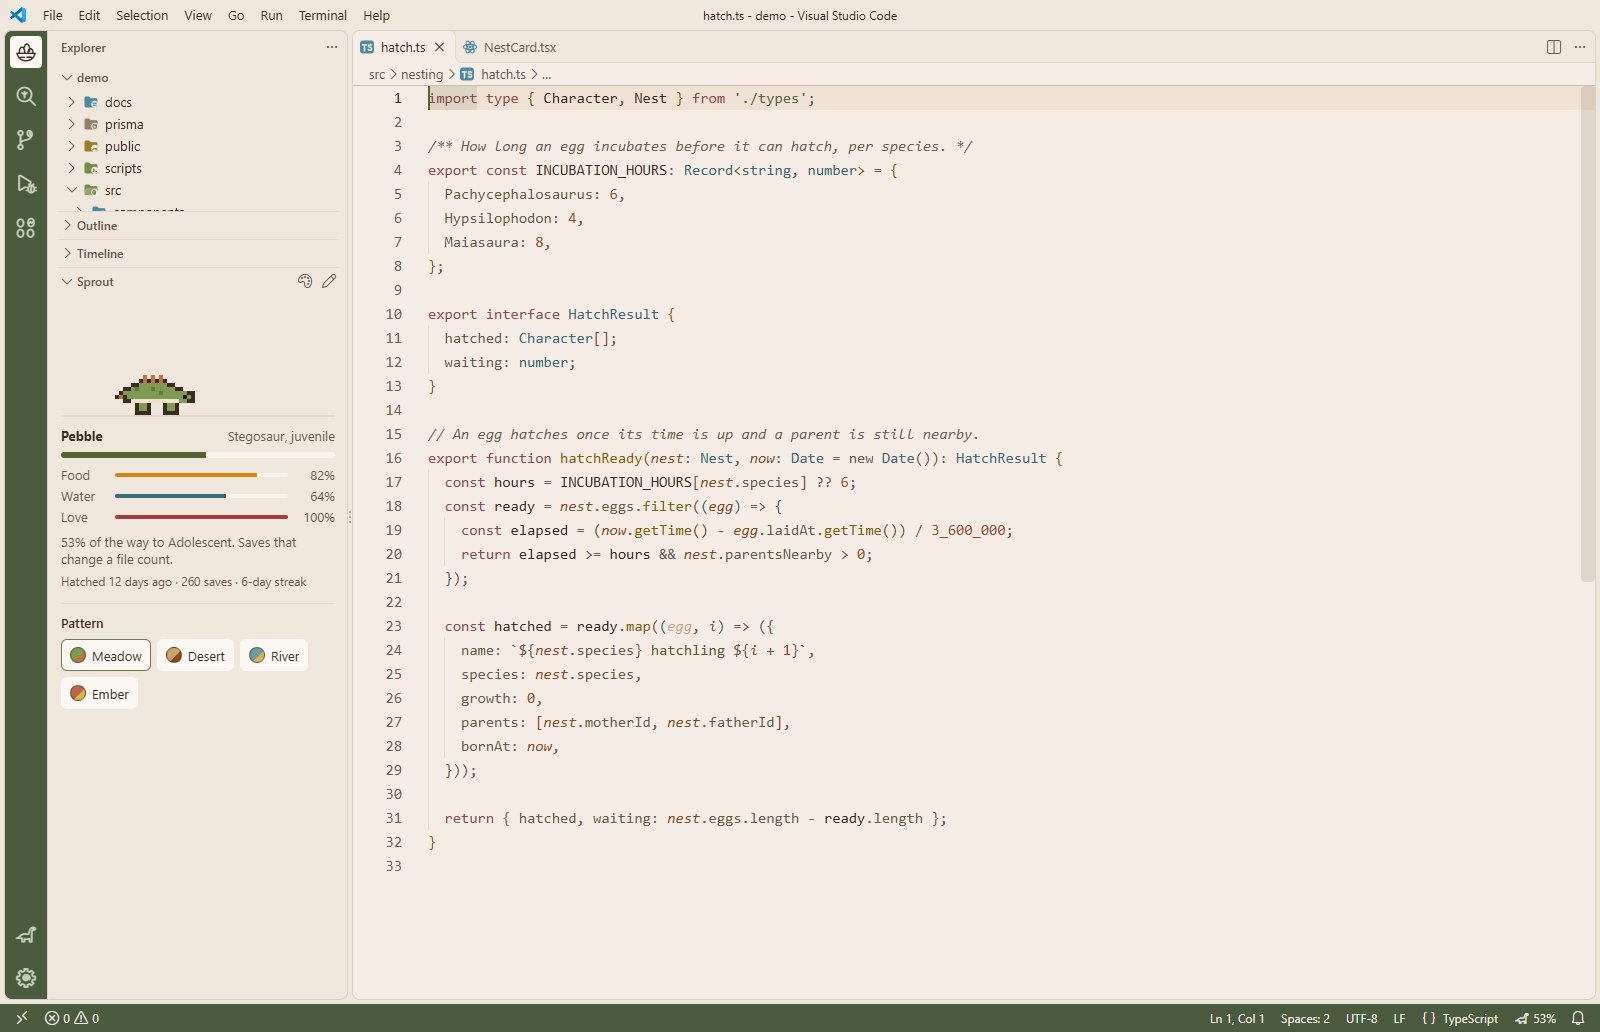
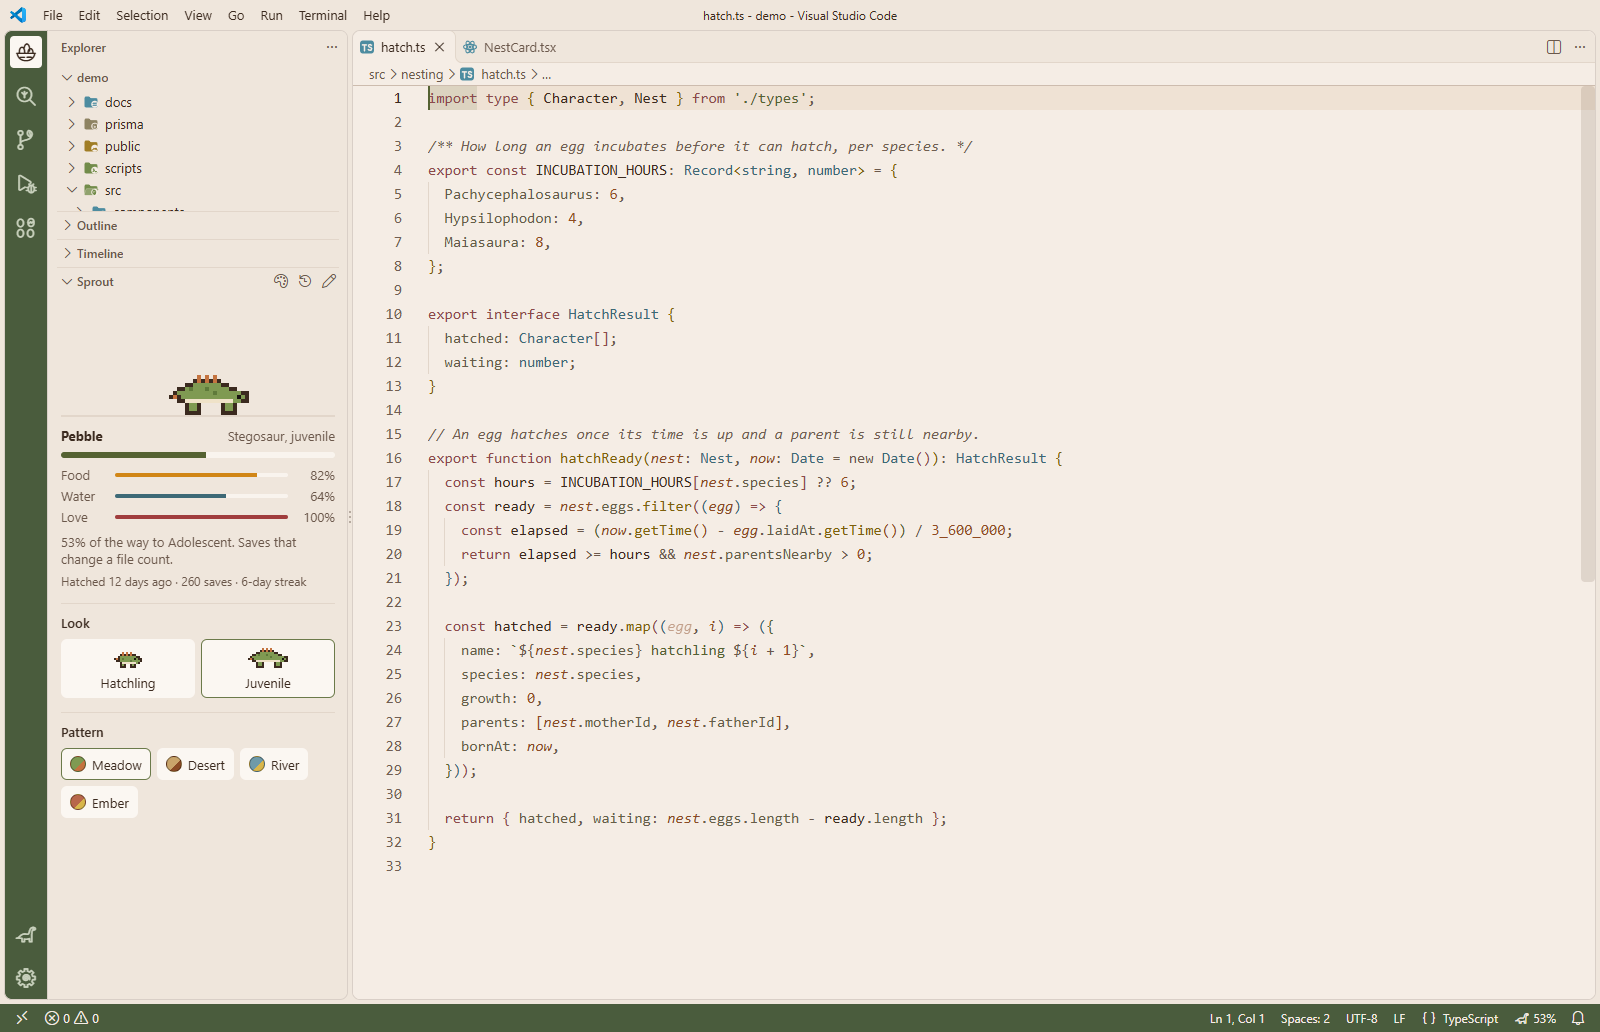
feat: show your sprout at any stage it has reached
- Pick a look under Look in the Sprout view, or with Rosa: Show my sprout at an earlier stage (history button on the view).
- Growth, needs and saves carry on underneath; picking its real stage clears the look so it follows its growth again.
- Starting over with a new egg clears the look.
- shownStage is tested; README, changelog and a new sprout-look picture cover it; version 1.5.0.

Refs #1

diff --git a/extension.js b/extension.js
@@ -52,6 +52,14 @@ function stageOf(saves) {
   return { index, name: STAGES[index].name, growth, next: next?.name ?? null };
 }
 
+// The stage the sprout is drawn at. Once it has reached a stage it can look
+// like that stage again; growth carries on underneath. No look, or a look it
+// has not reached, shows its real stage.
+function shownStage(state) {
+  const real = stageOf(state.saves).index;
+  return Number.isInteger(state.look) && state.look >= 1 && state.look < real ? state.look : real;
+}
+
 // Needs and love drop with wall time since they were last written. An egg
 // has none, so its needs stay full until it hatches.
 function needsAt(state, now) {
@@ -126,6 +134,7 @@ class SproutView {
       name: state.name,
       saves: state.saves,
       stage: stageOf(state.saves),
+      look: shownStage(state),
       errors: errorCount(),
       species: knownSpecies(state.species) ? state.species : 'sauropod',
       speciesChosen: knownSpecies(state.species),
@@ -168,6 +177,14 @@ class SproutView {
     this.refresh();
   }
 
+  // Picking its real stage clears the look, so it follows its growth again.
+  async setLook(index) {
+    const real = stageOf(this.state.saves).index;
+    if (!Number.isInteger(index) || index < 1 || index > real) return;
+    await this.update({ look: index < real ? index : undefined });
+    this.refresh();
+  }
+
   resolveWebviewView(view) {
     this.view = view;
     const media = (file) => view.webview.asWebviewUri(vscode.Uri.joinPath(this.context.extensionUri, 'media', file));
@@ -203,6 +220,10 @@ class SproutView {
     <h2 id="species-title">What's in the egg?</h2>
     <div class="species-list" id="species-list"></div>
   </section>
+  <section class="choices" id="looks" hidden>
+    <h2>Look</h2>
+    <div class="species-list" id="look-list"></div>
+  </section>
   <section class="choices" id="patterns" hidden>
     <h2>Pattern</h2>
     <div class="pattern-list" id="pattern-list"></div>
@@ -221,6 +242,7 @@ class SproutView {
       if (m.type === 'pet') this.pet();
       if (m.type === 'species') this.setSpecies(m.id);
       if (m.type === 'pattern') this.setPattern(m.id);
+      if (m.type === 'look') this.setLook(m.index);
     });
     // The animation pauses while the view is hidden, to spare the battery.
     view.onDidChangeVisibility(() => {
@@ -265,7 +287,10 @@ function activate(context) {
     status.text = `${icon} ${low ? (hunger < LOW ? 'Hungry' : 'Thirsty') : stage.next ? `${Math.floor(stage.growth * 100)}%` : stage.name}`;
     const growth = stage.next ? `${Math.floor(stage.growth * 100)}% of the way to ${stage.next}.` : 'Fully grown.';
     const needs = stage.index > 0 ? ` Food ${Math.round(hunger * 100)}%, water ${Math.round(thirst * 100)}%, love ${Math.round(love * 100)}%.` : '';
-    status.tooltip = `${name}, ${stage.name}. ${growth}${needs}`;
+    const shown = shownStage(sprout.state);
+    const lookName = STAGES[shown].name.toLowerCase();
+    const look = shown < stage.index ? ` Looks like ${/^[aeiou]/.test(lookName) ? 'an' : 'a'} ${lookName}.` : '';
+    status.tooltip = `${name}, ${stage.name}.${look} ${growth}${needs}`;
     status.show();
   };
   sprout.onChange = refreshStatus;
@@ -360,6 +385,25 @@ function activate(context) {
       if (pick) await sprout.setPattern(pick.id);
     }),
 
+    vscode.commands.registerCommand('rosa.sprout.chooseLook', async () => {
+      const real = stageOf(sprout.state.saves).index;
+      if (real < 2) {
+        const line = real === 0 ? 'still an egg' : 'a hatchling, its first stage';
+        vscode.window.showInformationMessage(`${sprout.state.name} is ${line}. Once it grows, you can show it at any stage it has reached.`);
+        return;
+      }
+      const shown = shownStage(sprout.state);
+      const pick = await vscode.window.showQuickPick(
+        STAGES.slice(1, real + 1).map((s, i) => ({
+          label: s.name,
+          description: [i + 1 === real ? 'Its real stage' : undefined, i + 1 === shown ? 'Current look' : undefined].filter(Boolean).join(', ') || undefined,
+          index: i + 1,
+        })),
+        { title: `Pick the stage ${sprout.state.name} looks like`, placeHolder: 'It keeps growing either way. Pick its real stage to follow its growth again.' },
+      );
+      if (pick) await sprout.setLook(pick.index);
+    }),
+
     vscode.commands.registerCommand('rosa.sprout.rename', async () => {
       const name = await vscode.window.showInputBox({
         title: 'Rename your sprout',
@@ -379,7 +423,7 @@ function activate(context) {
         'Start over with a new egg',
       );
       if (pick !== 'Start over with a new egg') return;
-      await sprout.update({ saves: 0, hunger: 1, thirst: 1, love: 1, species: undefined, hatchedAt: undefined, streak: 0, lastSaveDay: undefined });
+      await sprout.update({ saves: 0, hunger: 1, thirst: 1, love: 1, species: undefined, look: undefined, hatchedAt: undefined, streak: 0, lastSaveDay: undefined });
       sprout.refresh();
     }),
   );
@@ -397,4 +441,4 @@ function activate(context) {
 
 function deactivate() {}
 
-module.exports = { activate, deactivate, stageOf, needsAt, countsAsSave, nextStreak, dayOf };
+module.exports = { activate, deactivate, stageOf, shownStage, needsAt, countsAsSave, nextStreak, dayOf };

diff --git a/media/sprout.js b/media/sprout.js
@@ -16,6 +16,7 @@ let state = {
   name: 'Sprout',
   saves: 0,
   stage: { index: 0, name: 'Egg', growth: 0, next: 'Hatchling' },
+  look: 0,
   errors: 0,
   hunger: 1,
   thirst: 1,
@@ -64,6 +65,11 @@ function say(text, ms = 2600) {
 const percent = (v) => `${Math.round(v * 100)}%`;
 const needy = () => state.hunger < LOW || state.thirst < LOW;
 const stages = () => SPRITES.species[state.species] ?? SPRITES.stages;
+const LOOK_NAMES = ['egg', 'hatchling', 'juvenile', 'adolescent', 'adult'];
+const lookName = () => {
+  const name = LOOK_NAMES[state.look] ?? LOOK_NAMES[state.stage.index];
+  return `${/^[aeiou]/.test(name) ? 'an' : 'a'} ${name}`;
+};
 
 function age() {
   if (!state.hatchedAt) return null;
@@ -82,6 +88,15 @@ function buildChoices() {
     button.addEventListener('click', () => vscode.postMessage({ type: 'species', id: s.id }));
     speciesList.appendChild(button);
   }
+  const lookList = document.getElementById('look-list');
+  ['Hatchling', 'Juvenile', 'Adolescent', 'Adult'].forEach((name, i) => {
+    const button = document.createElement('button');
+    button.type = 'button';
+    button.dataset.look = String(i + 1);
+    button.innerHTML = `<canvas aria-hidden="true"></canvas><span>${name}</span>`;
+    button.addEventListener('click', () => vscode.postMessage({ type: 'look', index: i + 1 }));
+    lookList.appendChild(button);
+  });
   const patternList = document.getElementById('pattern-list');
   for (const p of PATTERNS) {
     const button = document.createElement('button');
@@ -94,13 +109,16 @@ function buildChoices() {
   }
 }
 
-// The species buttons while it is an egg, the pattern buttons after.
+// The species buttons while it is an egg, the look and pattern buttons after.
+// A look only shows once there are two stages to pick from.
 function renderChoices() {
   const egg = state.stage.index === 0;
   const species = document.getElementById('species');
   const patterns = document.getElementById('patterns');
+  const looks = document.getElementById('looks');
   species.hidden = !egg;
   patterns.hidden = egg;
+  looks.hidden = state.stage.index < 2;
   document.getElementById('species-title').textContent = state.speciesChosen
     ? `${speciesOf(state.species).name} egg. You can still change your mind.`
     : "What's in the egg?";
@@ -109,6 +127,14 @@ function renderChoices() {
     button.setAttribute('aria-pressed', String(state.speciesChosen && id === state.species));
     const preview = button.querySelector('canvas');
     draw(preview, preview.getContext('2d'), SPRITES.species[id][4].walkA, 2, palette);
+  });
+  looks.querySelectorAll('button').forEach((button) => {
+    const index = Number(button.dataset.look);
+    button.hidden = index > state.stage.index;
+    button.setAttribute('aria-pressed', String(index === state.look));
+    if (button.hidden) return;
+    const preview = button.querySelector('canvas');
+    draw(preview, preview.getContext('2d'), stages()[index].walkA, 2, palette);
   });
   patterns.querySelectorAll('button').forEach((button) => {
     button.setAttribute('aria-pressed', String(button.dataset.pattern === state.pattern));
@@ -133,6 +159,8 @@ function render() {
   else if (stage.index > 0 && state.thirst < LOW) hint = `${state.name} is thirsty. Clear the errors in your code to give it water.`;
   else if (stage.index > 0 && state.love < LOW) hint = `${state.name} misses you. Click it to give it a pet.`;
   else if (state.errors > 0) hint = `${state.errors} ${state.errors === 1 ? 'error' : 'errors'} nearby. ${state.name} is keeping an eye on it.`;
+  else if (state.look < stage.index && stage.next) hint = `Looks like ${lookName()}, and still ${Math.floor(stage.growth * 100)}% of the way to ${stage.next}.`;
+  else if (state.look < stage.index) hint = `Looks like ${lookName()}. Fully grown underneath, with ${state.saves.toLocaleString('en-US')} saves.`;
   else if (stage.next) hint = `${Math.floor(stage.growth * 100)}% of the way to ${stage.next}. Saves that change a file count.`;
   else hint = `Fully grown, with ${state.saves.toLocaleString('en-US')} saves behind it.`;
   document.getElementById('hint').textContent = hint;
@@ -204,7 +232,7 @@ function tick() {
     return;
   }
 
-  const sprite = stages()[index];
+  const sprite = stages()[state.look || index];
   const asleep = Date.now() - lastActive > IDLE_MS;
   if (asleep) {
     draw(canvas, ctx, sprite.sleep, SCALE);

diff --git a/media/sprout.css b/media/sprout.css
@@ -186,6 +186,9 @@ main {
   justify-content: flex-end;
   padding: 8px 4px 6px;
 }
+.choices button[hidden] {
+  display: none;
+}
 .choices button:hover {
   background: var(--vscode-button-secondaryHoverBackground);
 }

diff --git a/README.md b/README.md
@@ -67,6 +67,16 @@ button at the top of it.
 
 ![A sauropod in Meadow, a stegosaur in Desert, a ceratopsian in River and a raptor in Ember](images/sprout-patterns.png)
 
+### Show it at an earlier stage
+
+Miss your tiny hatchling? Once your sprout has grown past a stage, you can
+show it at that stage again, whenever you like. Pick a look under **Look** in
+the Sprout view, or with the history button at the top of it. It keeps
+growing underneath, so nothing is lost. Pick its real stage to see it as it
+is again.
+
+<img src="images/sprout-look.png" alt="An adult stegosaur shown as a hatchling, with the look picker listing every stage it has reached" width="300">
+
 ### Looking after it
 
 The egg rocks from the start, cracks as it gets close, and breaks open when it
@@ -97,6 +107,7 @@ your sprout comes along to your other computers.
 | **Rosa: Pet my sprout** | Gives it a pet. |
 | **Rosa: Choose what's in the egg** | Picks its species, while it's still an egg. |
 | **Rosa: Change my sprout's pattern** | Gives it a new pattern. |
+| **Rosa: Show my sprout at an earlier stage** | Shows it at any stage it has reached. Pick its real stage to go back. |
 | **Rosa: Rename my sprout** | Gives it a new name. You can also click its name. |
 | **Rosa: Start over with a new egg** | Starts again from a new egg, with a new species to pick. You can't undo this. |
 

diff --git a/CHANGELOG.md b/CHANGELOG.md
@@ -1,5 +1,12 @@
 # Changelog
 
+## 1.5.0
+
+- Show your sprout at an earlier stage: once it has grown past a stage, pick
+  that stage under Look in the Sprout view, or with Rosa: Show my sprout at an
+  earlier stage. It keeps growing underneath, and picking its real stage
+  brings its own look back.
+
 ## 1.4.0
 
 - Pick your dinosaur: while it's an egg, choose a sauropod, stegosaur,
